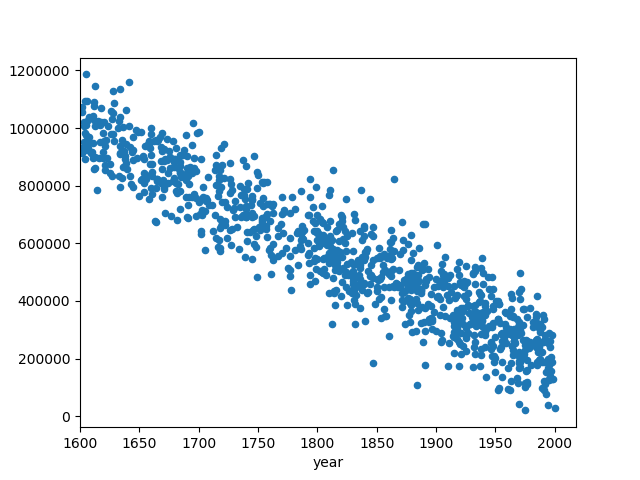
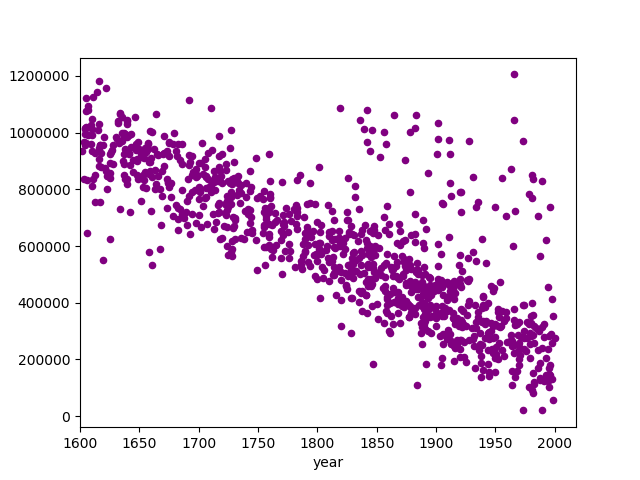
Vary plot colors.

diff --git a/edaExtensions.py b/edaExtensions.py
@@ -74,9 +74,9 @@ print(books.lang.value_counts())
 #books.boxplot(column='words',by='lang',notch=True)
 #plt.savefig('notchedboxplot.png')
 #
-#plt.figure()
-#books.plot.scatter(x='year',y='words',xlim=(1600,2018))
-#plt.savefig('scatterplot.png')
+plt.figure()
+books.plot.scatter(x='year',y='words',xlim=(1600,2018), color="purple")
+plt.savefig('scatterplot.png')
 
 books = books[books.year > 1500]
 
@@ -91,13 +91,13 @@ books = books[books.year > 1500]
 #plt.figure()
 #plot_kws={"s":30}
 #facet = sns.FacetGrid(books, col='lang')
-#facet.map(plt.scatter, 'year', 'words', marker=".")
+#facet.map(plt.scatter, 'year', 'words', marker=".", color="red")
 #plt.savefig('scatterplotfacets.png')
-
+#
 #plt.figure()
 #plot_kws={"s":30}
 #facet = sns.FacetGrid(books, row='gender', col='lang')
-#facet.map(plt.scatter, 'year', 'words', marker=".")
+#facet.map(plt.scatter, 'year', 'words', marker=".", color="darkgreen")
 #plt.savefig('scatterplotfacets2d.png')
 
 #plt.figure()
